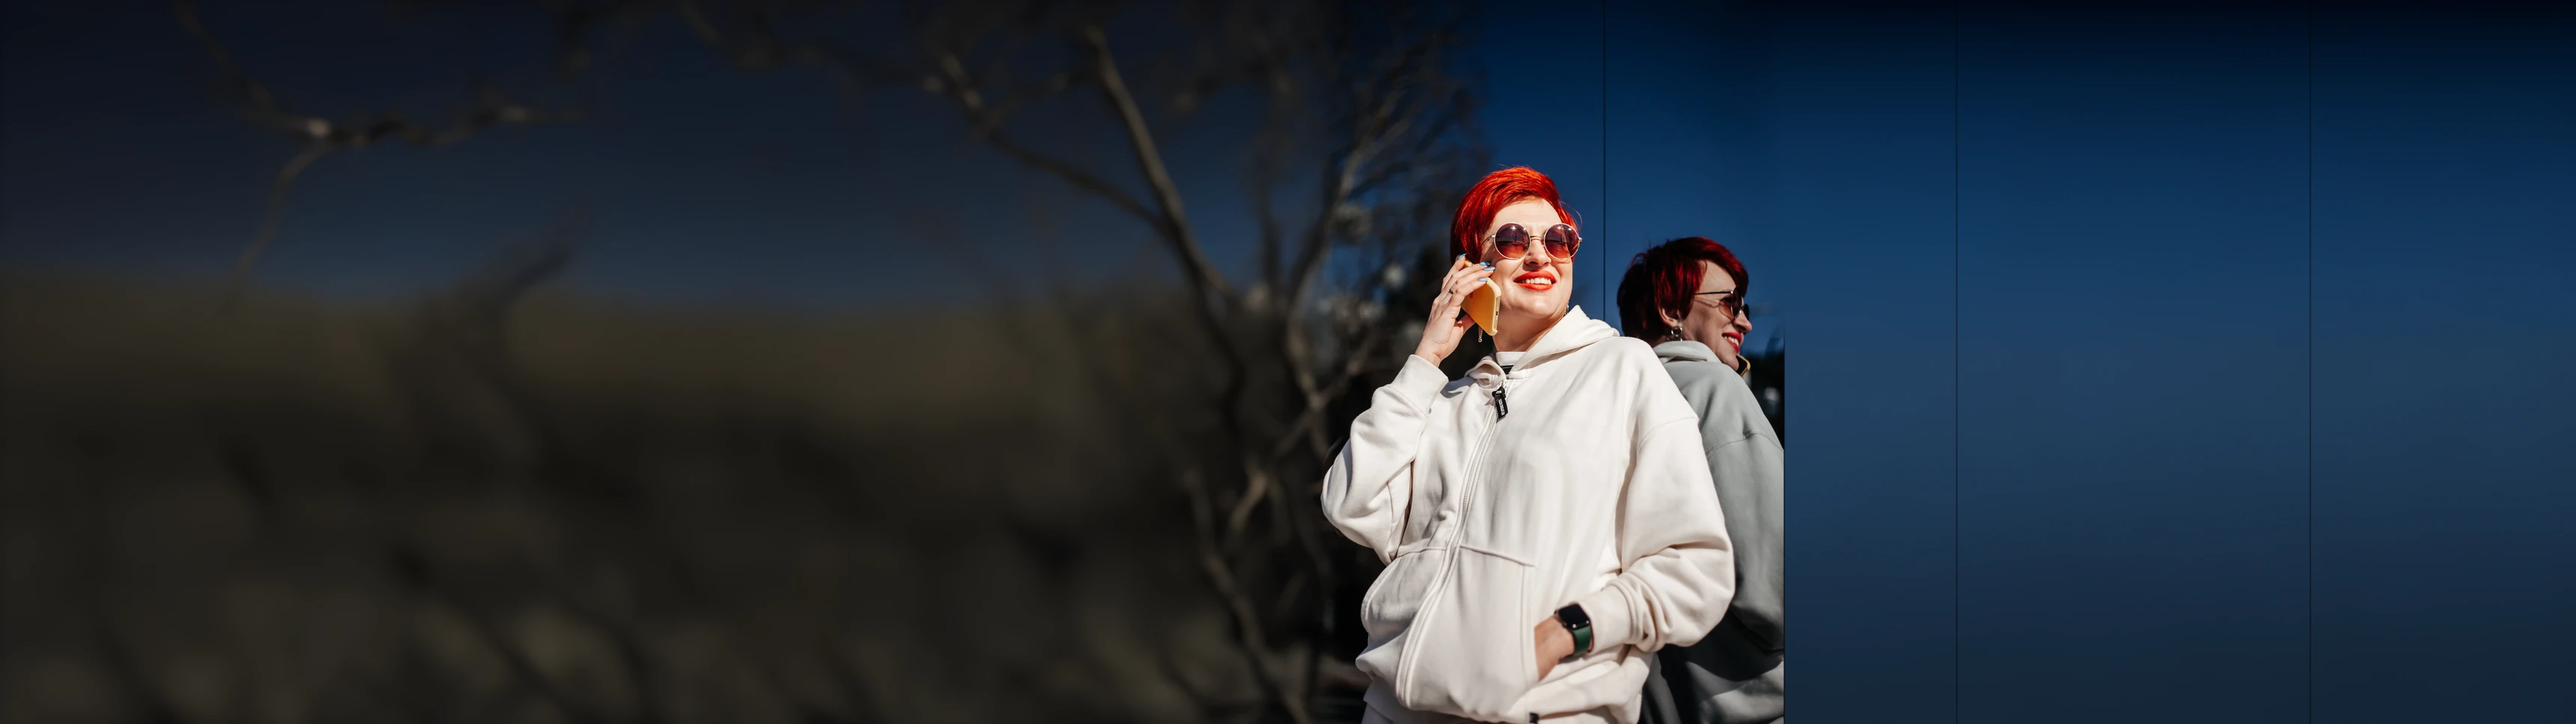
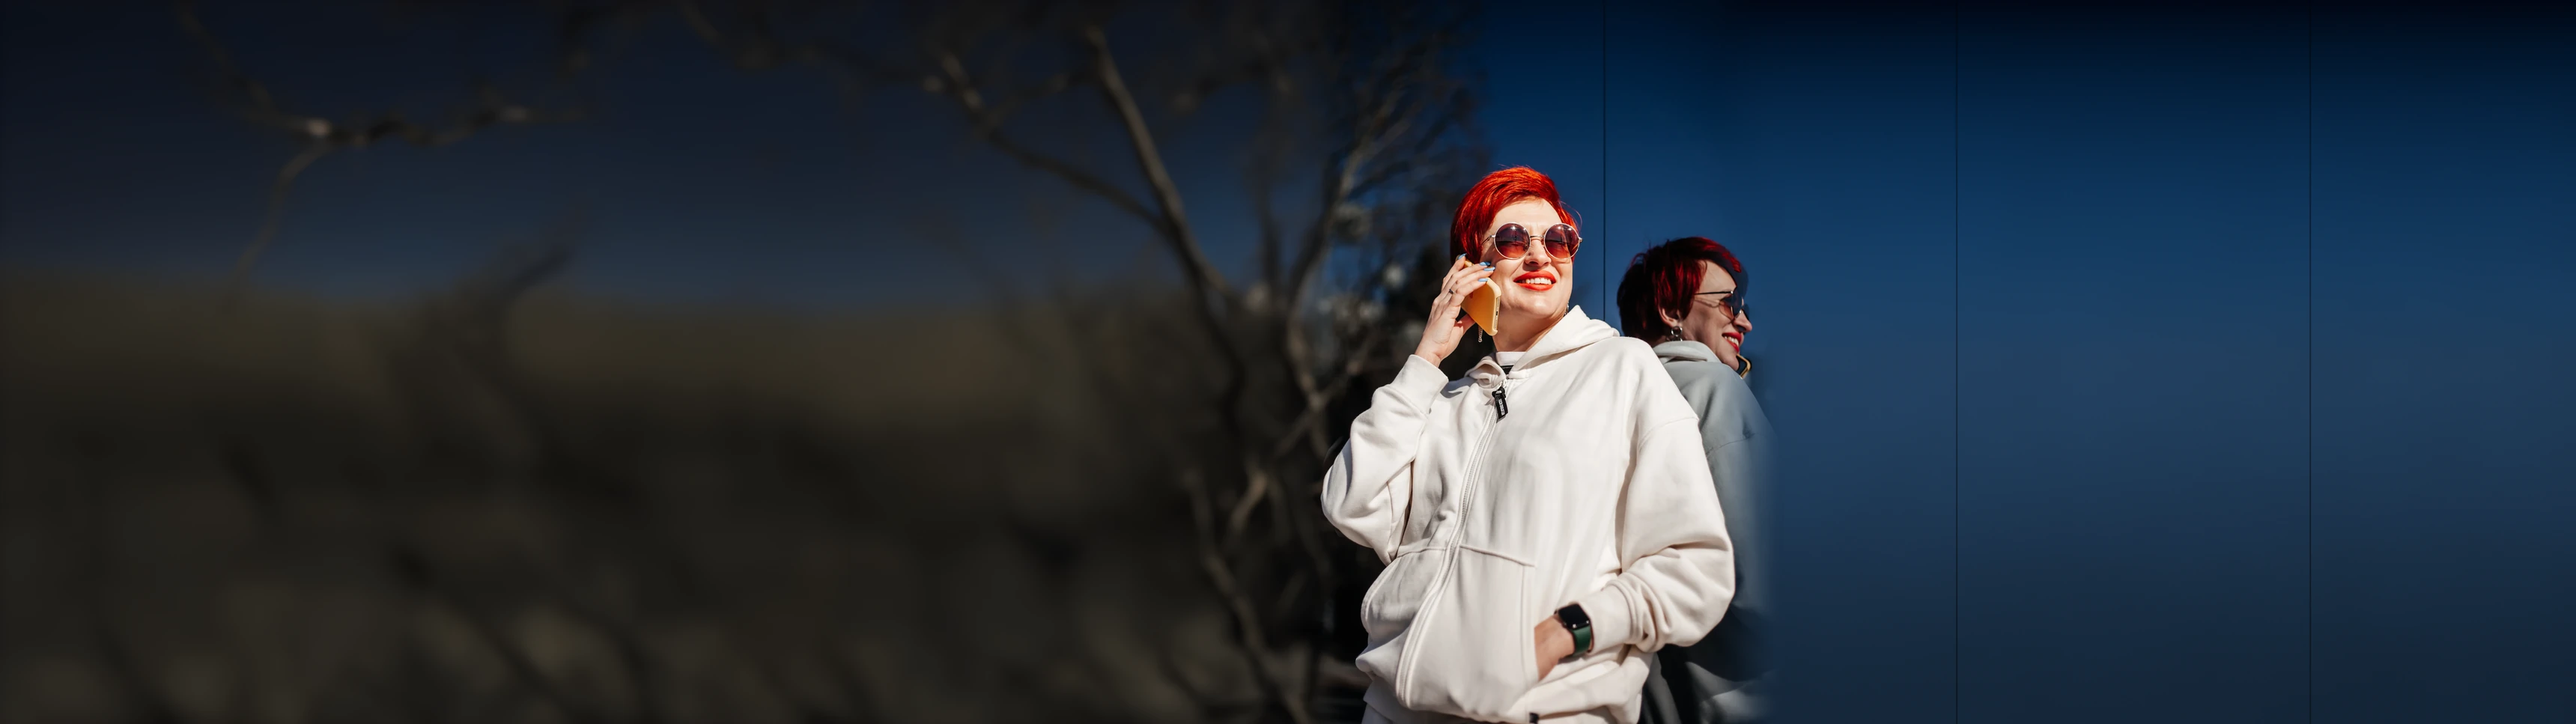
fix(006): отражение справа уходит в стекло плавно, без обрыва
Claude-Session: https://claude.ai/code/session_01GPChRLcNC8GfabuTaiMtUE

Changed region(s): [[0.6532, 0.4654, 0.7154, 1.0], [0.6532, 0.3723, 0.6843, 0.4343]]

diff --git a/specs/006-new-design-rollout/outpaint/refl_fade.py b/specs/006-new-design-rollout/outpaint/refl_fade.py
@@ -1,0 +1,47 @@
+# Правка правого края: отражение (серая толстовка) уходит в стекло плавно, без нейросети.
+# Под правые FADE px исходника кладётся стекло (соседняя полоса стекла мастера, сдвинутая влево), вес исходника 1 -> 0 (smoothstep).
+# Не трогаются: Валентина (белое худи — яркое и малонасыщенное; всё левее x=1100 исходника) и лицо/волосы отражения (красное/кожа).
+# Тёмный шов 3px на месте старого жёсткого стыка заменяется стеклом.
+# usage: refl_fade.py MASTER.png SRC.webp OUT.png
+import sys, numpy as np
+from PIL import Image, ImageFilter
+M, SRC, OUT = sys.argv[1:4]
+X0, WS, FADE = 3680, 1366, 240
+X1 = X0 + WS
+m = np.asarray(Image.open(M).convert('RGB'), np.float32)
+o8 = np.asarray(Image.open(SRC).convert('RGB').resize((WS, 2048), Image.LANCZOS)); o = o8.astype(np.float32)
+H = m.shape[0]
+lum = o.mean(2); sat = o.max(2) - o.min(2)
+# худи Валентины тёплое (R-B от 7 до 20, светлее 140), толстовка отражения нейтрально-серая (R-B≈0, ~140) — различаем по оттенку
+white = (o[..., 0] - o[..., 2] >= 5) & (lum > 140) & (sat < 70)
+# только крупные белые области (худи Валентины), мелкие блики отражения — нет: открытие 31px + возврат края 25px
+wi = Image.fromarray((white * 255).astype(np.uint8))
+big = np.asarray(wi.filter(ImageFilter.MinFilter(31)).filter(ImageFilter.MaxFilter(81)), np.uint8) > 0
+white = white & big
+face = (o[..., 0] - o[..., 2] > 45) & (o[..., 0] > 90)             # рыжие волосы, кожа, губы (Валентина и отражение)
+kb = Image.fromarray(((white | face) * 255).astype(np.uint8))
+keep_hard = np.asarray(kb.filter(ImageFilter.MaxFilter(7)), np.float32) / 255                       # маска + 3px — строго исходник
+keep = np.maximum(keep_hard, np.asarray(kb.filter(ImageFilter.MaxFilter(11)).filter(ImageFilter.GaussianBlur(4)), np.float32) / 255)
+keep[:, :1100] = 1.0
+x = np.arange(WS)[None, :]
+t = np.clip((WS - 1 - x) / FADE, 0, 1); w = t * t * (3 - 2 * t)      # 1 внутри, 0 у края
+w = np.maximum(w, keep)
+pm = (lum > 150) | ((o[..., 0] > 140) & (o[..., 0] - o[..., 2] > 60))
+pm = np.asarray(Image.fromarray((pm * 255).astype(np.uint8)).filter(ImageFilter.MedianFilter(9))) > 0
+w = np.where((pm & (x < 1100)) | white, 1.0, w)                          # пиксели Валентины — всегда исходник
+glass = m[:, X1 + 12:X1 + 12 + FADE]                               # стекло сразу за стыком (уже без шва)
+res = m.copy()
+a = X1 - FADE; wf = w[:, WS - FADE:, None]
+res[:, a:X1] = m[:, a:X1] * wf + glass * (1 - wf)                      # меняется только правая полоса FADE px
+res[:, X1:X1 + 3] = m[:, X1 + 12:X1 + 15]                            # убрать старый тёмный шов (за краем исходника)
+out = np.clip(res.round(), 0, 255).astype(np.uint8)
+Image.fromarray(out).save(OUT)
+chg = (out[:, X0:X1] != o8).any(2)
+m8 = np.clip(m.round(), 0, 255).astype(np.uint8)
+dm = (out != m8).any(2)
+person = (lum > 150) | ((o[..., 0] > 140) & (o[..., 0] - o[..., 2] > 60))
+person = np.asarray(Image.fromarray((person * 255).astype(np.uint8)).filter(ImageFilter.MedianFilter(9))) > 0
+val = (person & (x < 1100)) | white                                   # Валентина: белое худи + всё её левее отражения
+cols = np.where(dm.any(0))[0]
+print(f'изменено относительно прошлого мастера: колонки {cols.min()}..{cols.max()} (полоса стыка X1-{FADE}..X1+2 = {X1-FADE}..{X1+2}), px={int(dm.sum())}')
+print(f'Валентина px={int(val.sum())}; отличий от исходника={int((chg & val).sum())}')

diff --git a/specs/006-new-design-rollout/design-system.md b/specs/006-new-design-rollout/design-system.md
@@ -78,3 +78,4 @@
 - Проверка человека (мастер PNG против исходника, приведённого к высоте 2048 тем же Lanczos): Валентина — 0 изменённых пикселей из 1 071 903; 451 изменённый пиксель — 3px тёмного шва панели по краю отражения справа.
 - Файлы: `assets/img/nw-wide-{3440,5120,7286}.webp` (q90); на ≤1100px или портретных экранах — исходный портрет `portrait-phone-call-{600,1200}.webp`.
 - Положение человека (`object-position`, `.nwx-ph img`): 46% при соотношении <16:9, 40% при 16:9…2:1 и ≥2:1, 30%/75% при ≥3:1 (кадр режется по высоте). Подобрано расчётом «центр человека = 0.599 ширины файла» и проверено замером: на 20 вьюпортах (1024…5120, обе темы) заголовок, лид, кнопка и билеты не пересекают лицо, руку с телефоном, руку в кармане и лицо отражения (`MOCK2-zones.json`).
+- Правка 01.10 (координатор: обрыв отражения справа — брак): `outpaint/refl_fade.py` без нейросети — правые 240px исходника (серая толстовка отражения) плавно уходят в стекло (smoothstep), старый тёмный шов 3px убран. Худи Валентины отделено от отражения по оттенку (тёплое R−B 7…20 против нейтрального ≈0), её пиксели всегда берутся из исходника. Сверка: Валентина 0 изменений относительно прошлого мастера; относительно исходника 1 пиксель на левом краю локтя — от левой склейки, был и до правки.
